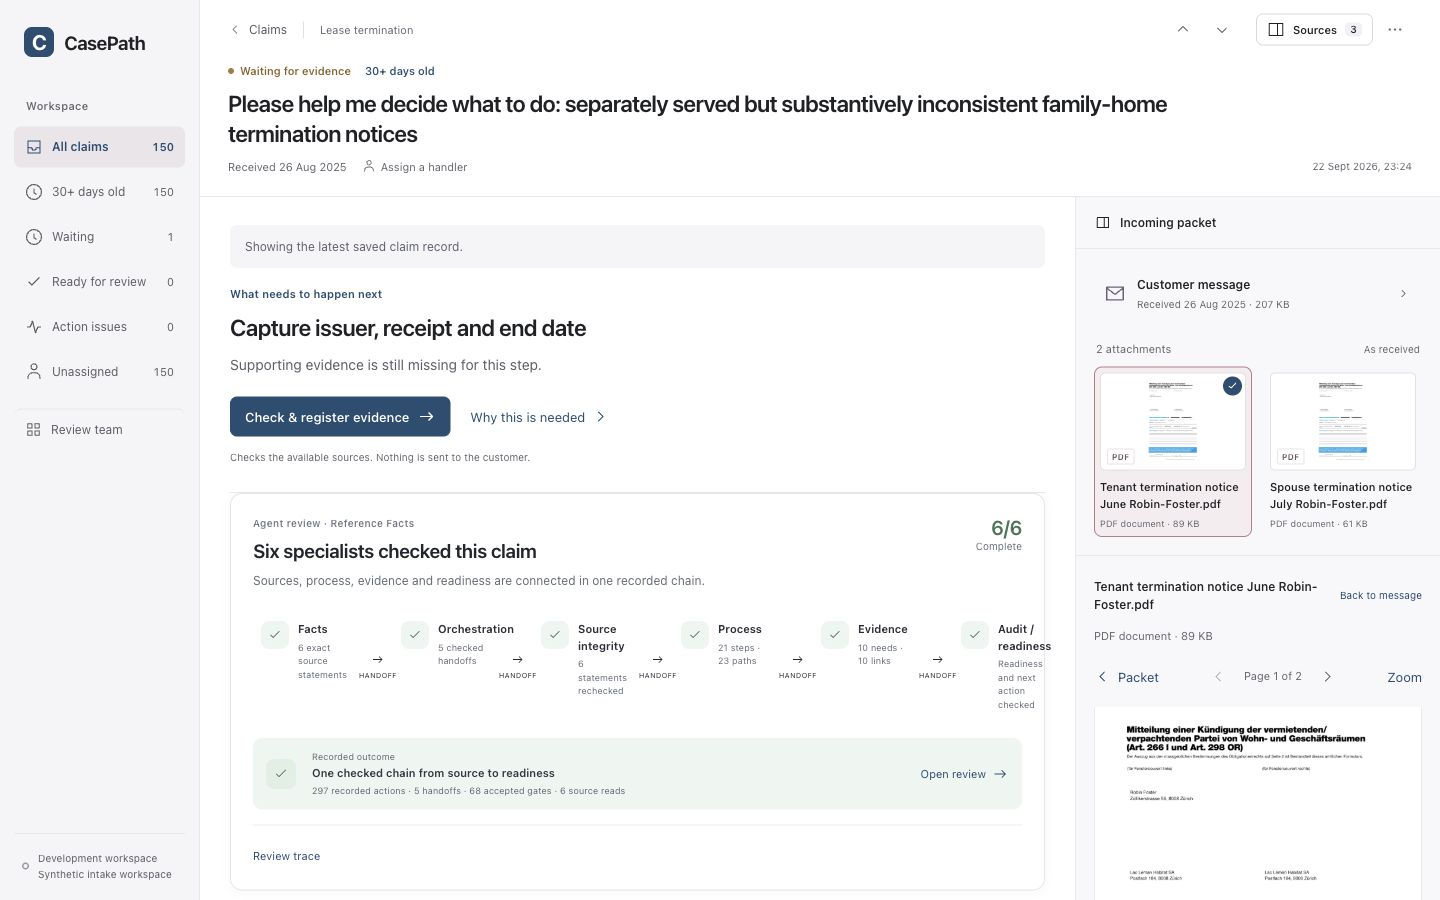
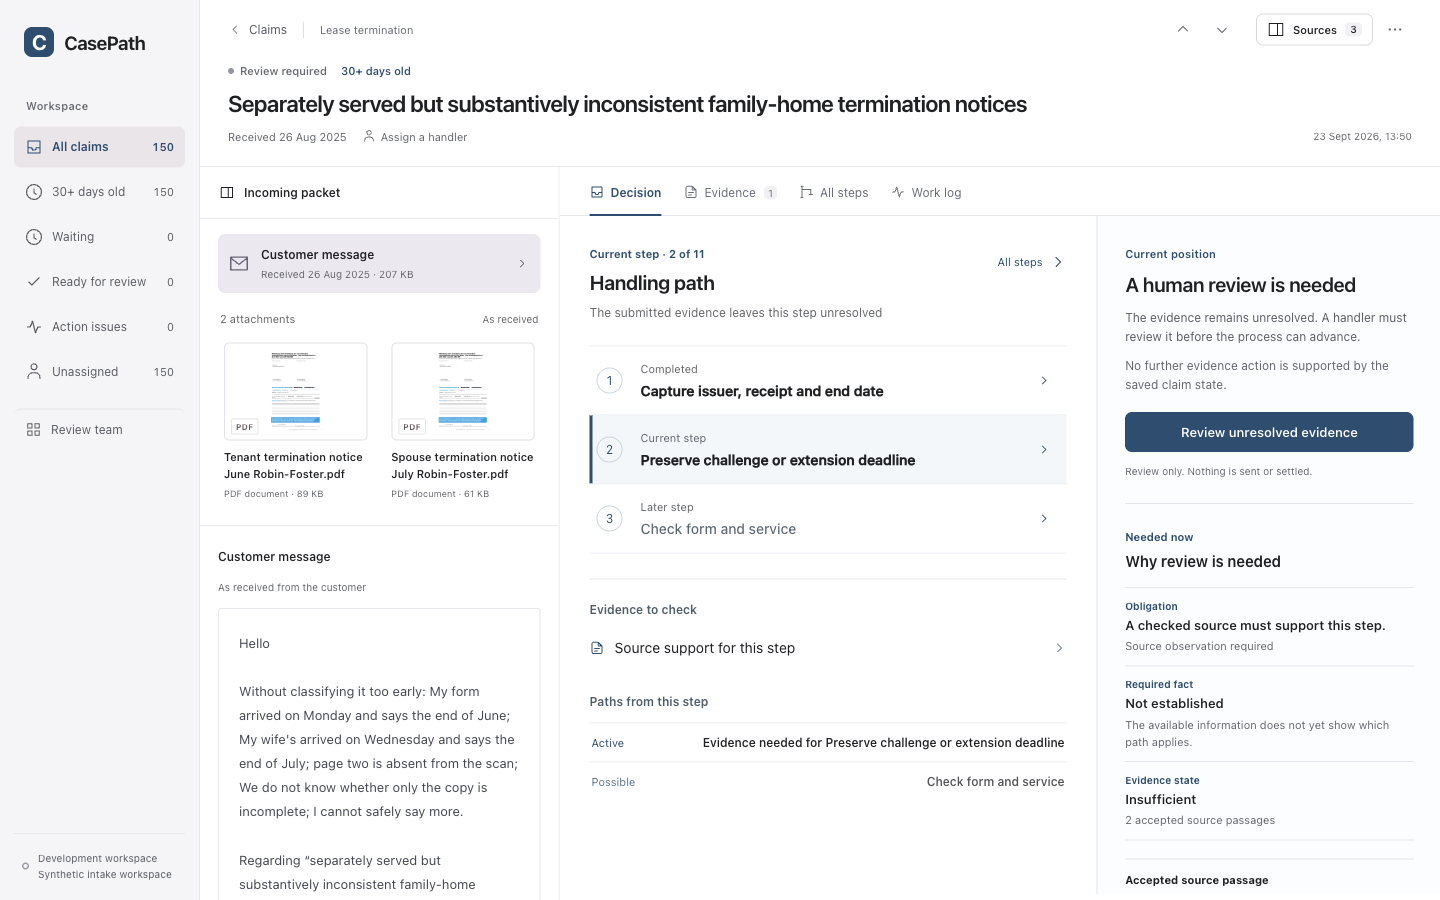
docs(workspace): show the active evidence review

diff --git a/README.md b/README.md
@@ -1,16 +1,16 @@
 # CasePath
 
-CasePath helps a claims handler answer a practical question: **why is this document needed for this claim now?** Its workbench keeps the original packet beside the process path, evidence state, and next action. It shows when a supporting source link has not been established.
+CasePath helps a claims handler see what evidence is needed for a claim now, and why. Its workbench keeps the original packet beside the active process step, evidence requirement, and next action. It leaves a document request unspecified when the saved case does not justify one.
 
 The local workbench opens all 150 synthetic intake claims. It keeps source files, recorded observations, proposed work, and accepted handling events separate. Its default review is deterministic and makes no model API calls.
 
-![CasePath workbench after a deterministic review of a fictional claim, with the next action beside two original PDF notices](docs/images/workbench-review.png)
+![CasePath workbench showing original claim sources, the active process step, an unresolved evidence requirement, and the next review action](docs/images/workbench-review.png)
 
-*A fictional claim after local review. The original notices remain visible beside the proposed next action; this product example is not a benchmark result.*
+*A fictional claim after local review. Two original notices remain visible beside the current path and a human-review action. The saved state does not specify a document to request; this product example is not a benchmark result.*
 
 ## See one claim
 
-After starting the app, open [a family-home termination claim with two original notices](http://127.0.0.1:4173/#claim=clm_f69b1747447bc221). Read the message and both PDFs in **Sources**, then select **Start agent review**. The saved review shows what each role inspected and handed off. **Process** shows the current step and alternatives; **Evidence** shows what is present, missing, or unresolved. Select an item to inspect its reason and any accepted source link. Nothing is sent to a customer or settled by this review.
+After starting the app, open [a family-home termination claim with two original notices](http://127.0.0.1:4173/#claim=clm_f69b1747447bc221). Read the message and both PDFs in **Sources**, then select **Start review**. **Decision** shows the current process step, evidence to check, and next action; **Evidence** shows what is present, missing, or unresolved. Select a requirement to inspect its reason and any accepted source passage. Nothing is sent to a customer or settled by this review.
 
 The [interactive method guide](docs/method-guide.md) gives a smaller teaching example: a repair may need an inspection report, or a service note and photo together. Changing the active condition or the available evidence changes the request. This authored example explains the controller; it is separate from measured benchmark cases.
 
